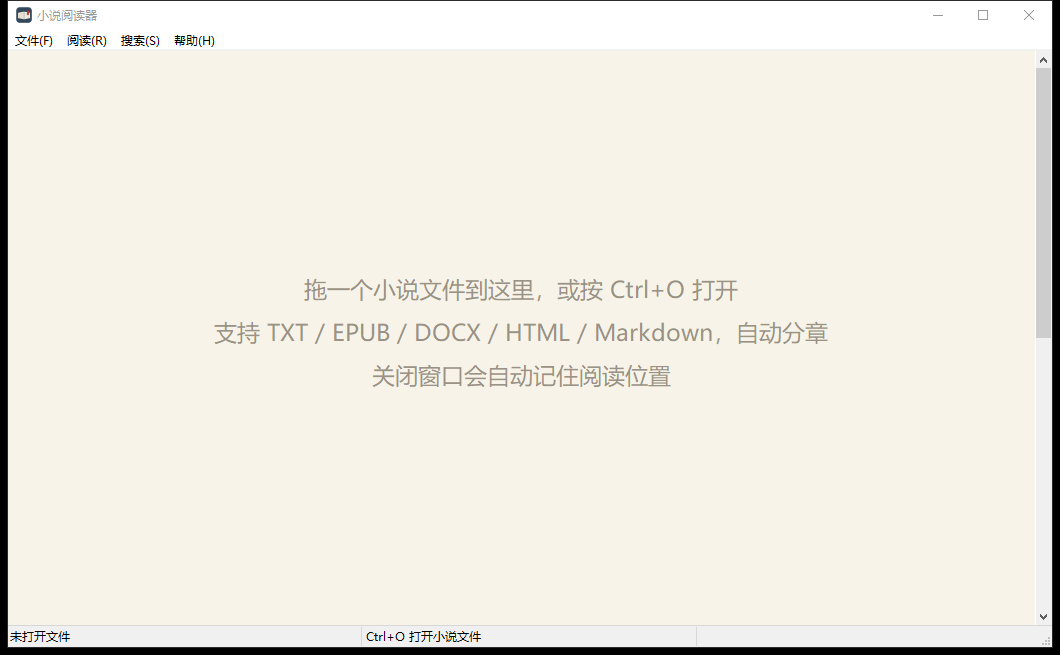
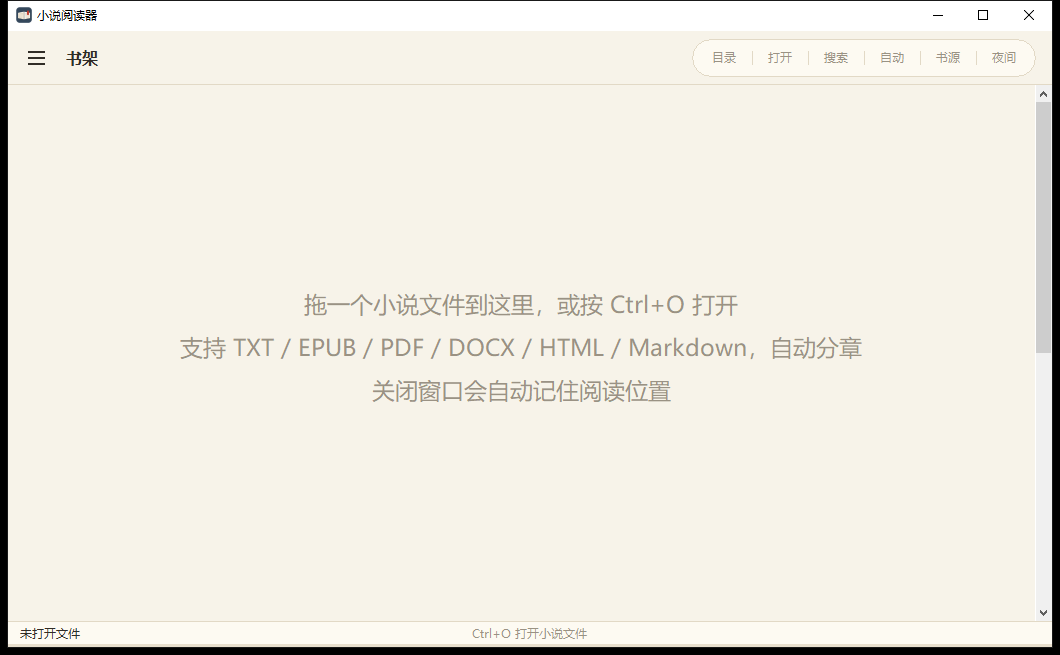
docs(1.5.0): README 补首次打开截图与截图说明

diff --git a/README.md b/README.md
@@ -58,6 +58,10 @@
 
 主界面（TXT 大文件，左侧目录 + 正文）：
 
+![首次打开](https://github.com/chenzy0623/NovelReader/raw/main/screenshots/09-welcome.png)
+
+*第一次打开（书架还是空的）：直接把书拖进来，或按 Ctrl+O。*
+
 ![主界面](https://github.com/chenzy0623/NovelReader/raw/main/screenshots/01-main.png)
 
 全文搜索（127 处命中，带章节名和上下文）：
